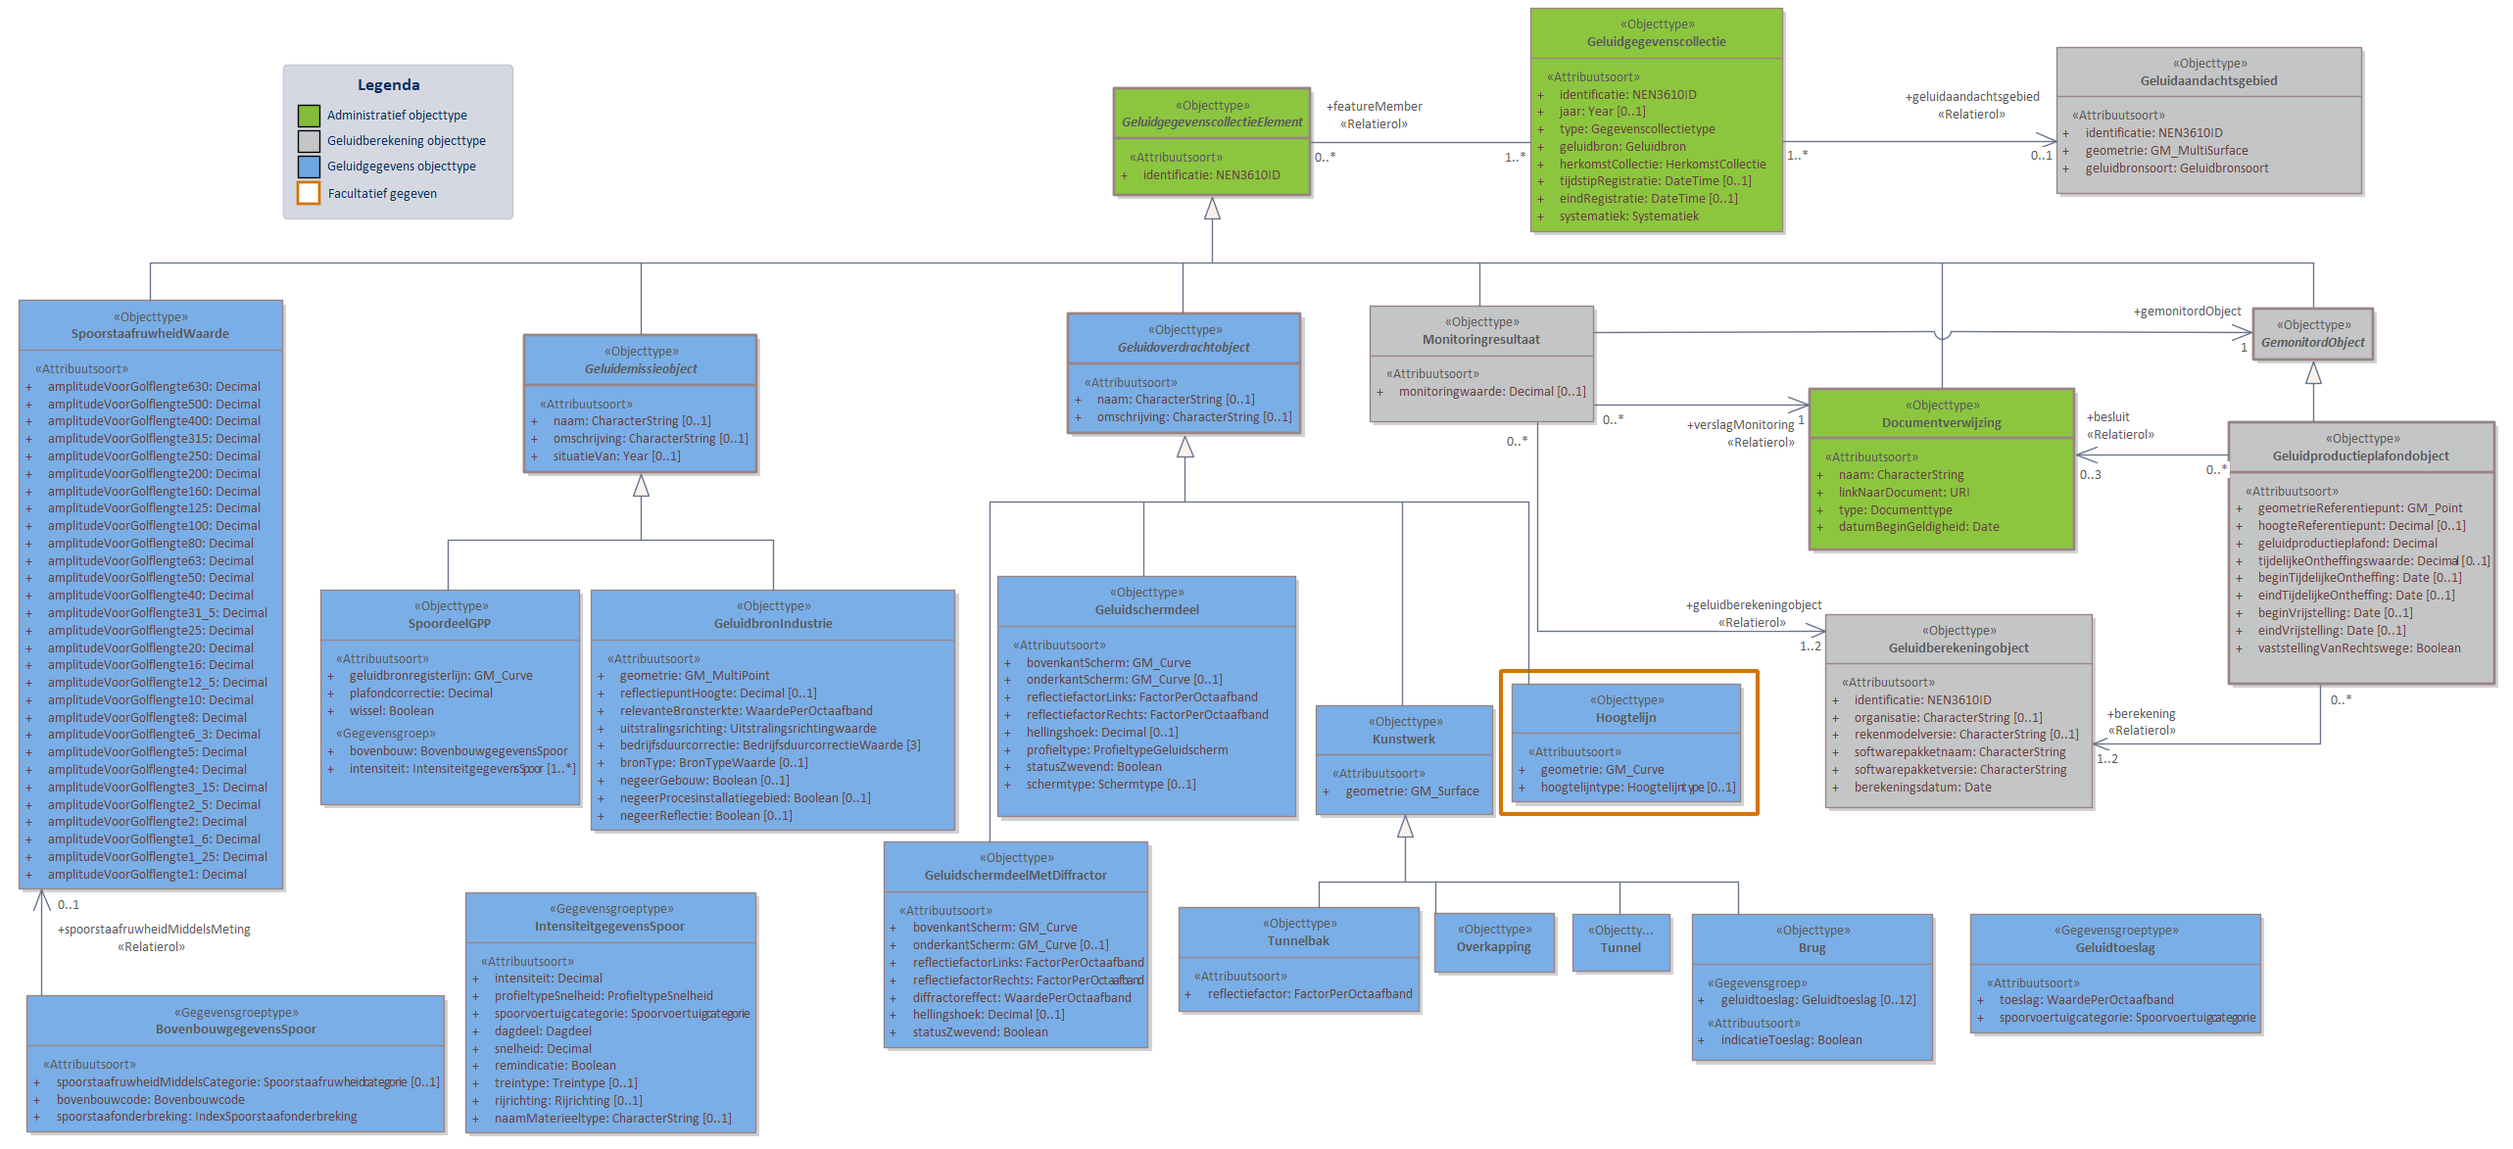
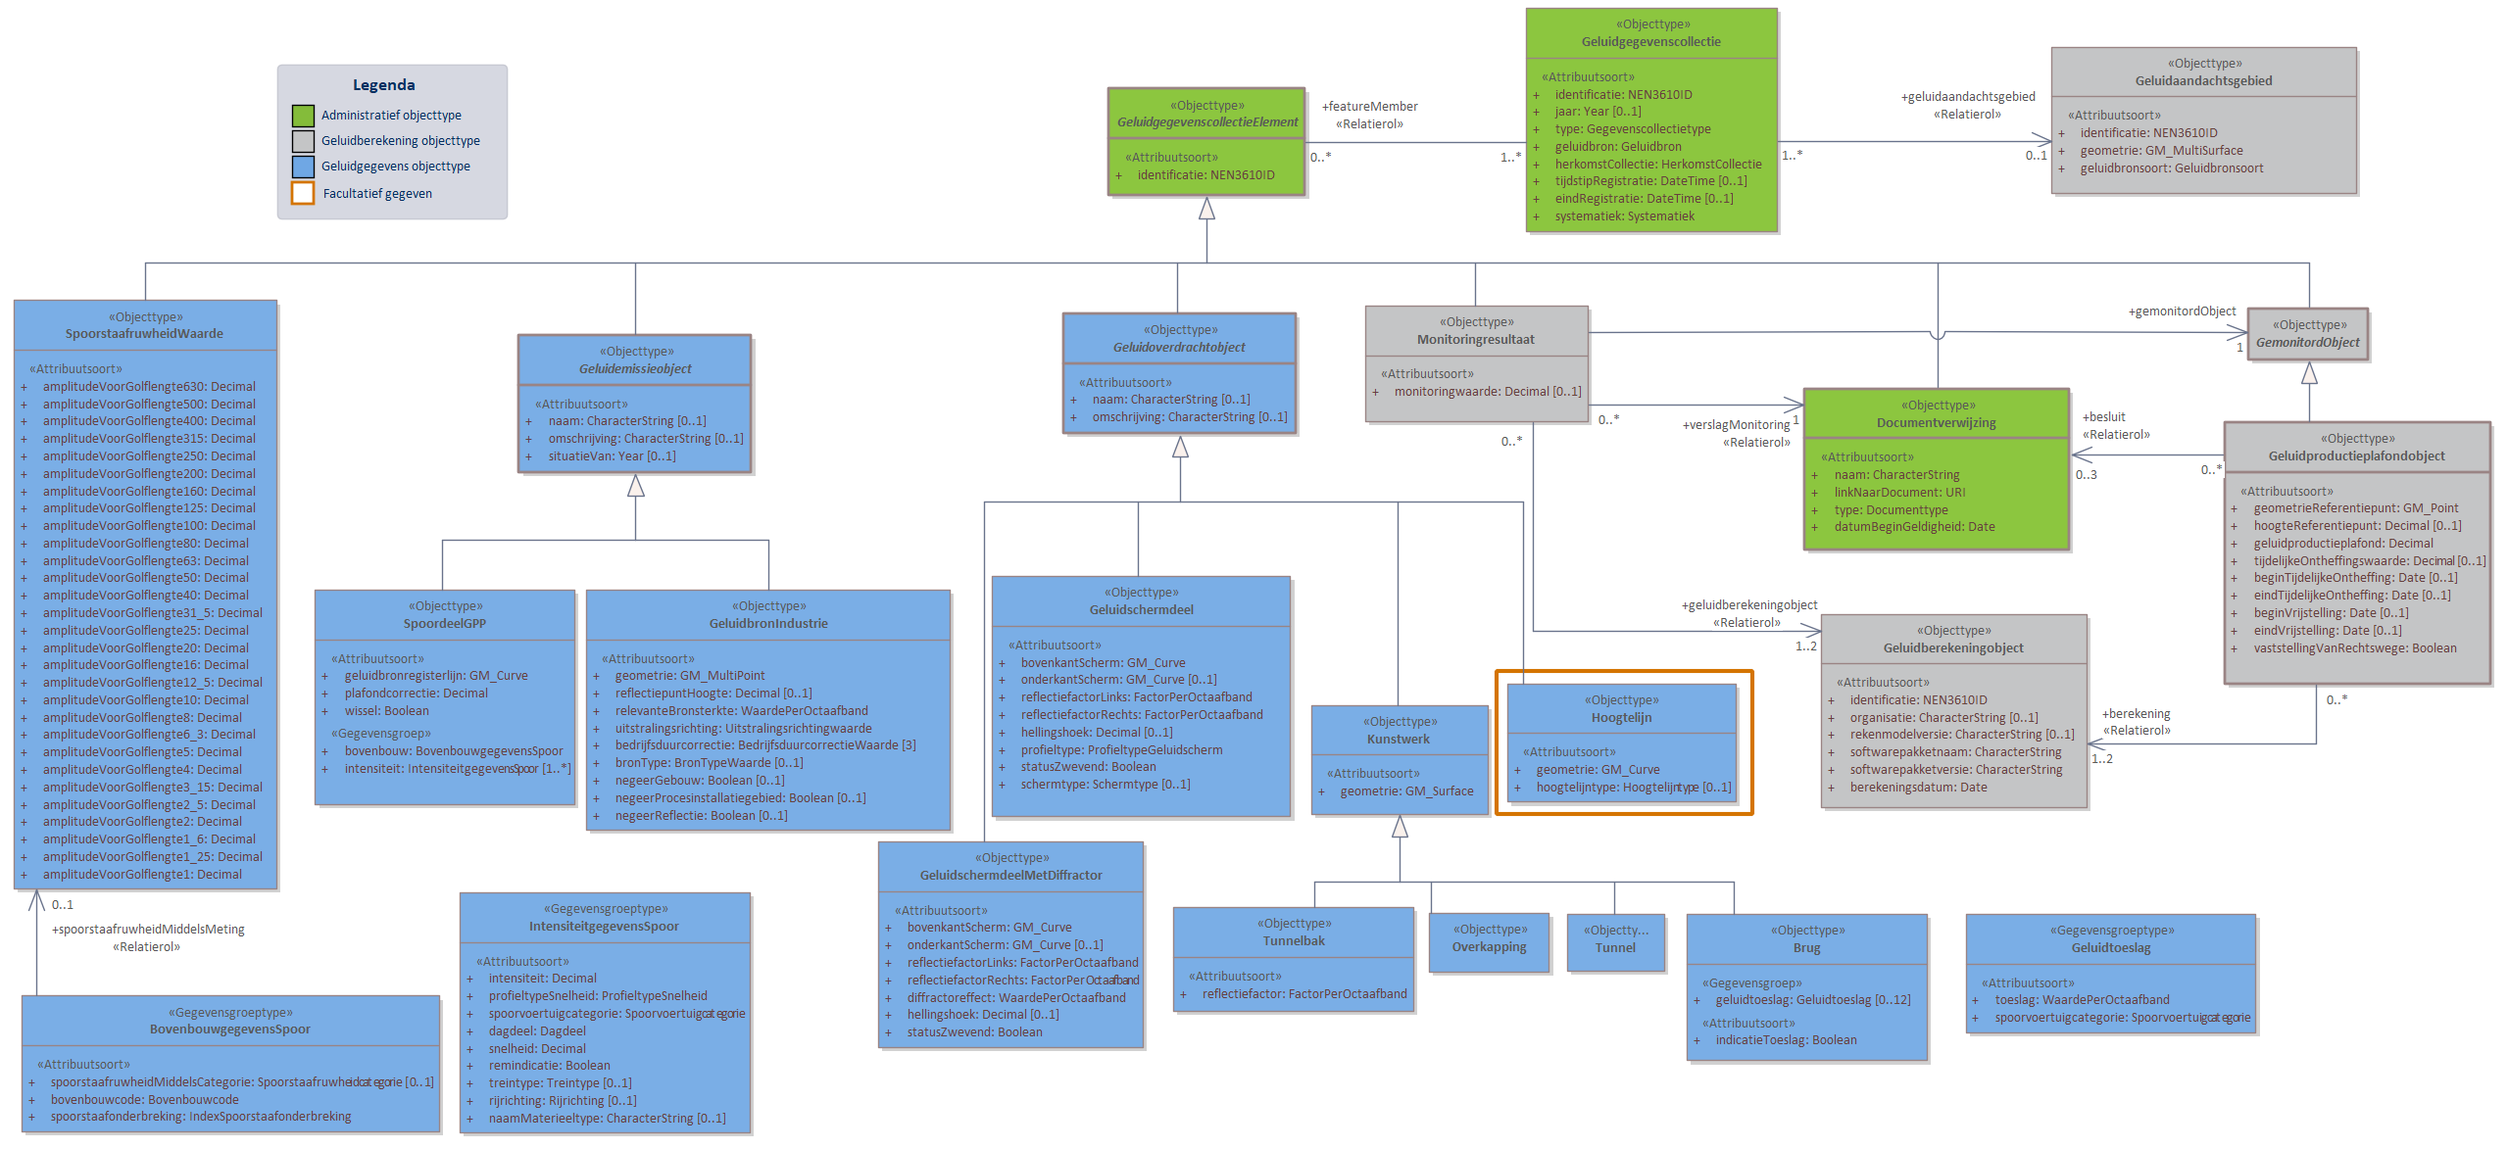
MIMLM-IMGeluid-3.1.1-0-20230920-20240814-122722

diff --git a/data/IMG-cat.respec.html b/data/IMG-cat.respec.html
@@ -1,7 +1,7 @@
 
 <!DOCTYPE HTML><section id="cat" class="normative">
    <h2>Gegevensdefinitie</h2>
-   <!--MIMLM-IMGeluid-3.1.1-0-20230920-20240814-122103 imvertor 3.0.0-->
+   <!--MIMLM-IMGeluid-3.1.1-0-20230920-20240814-122722 imvertor 3.0.0-->
    <section id="EAID_66AE8FA2_74FC_4d4d_B2B2_249C8D6A651F">
       <h3>   Basismodel - overzicht</h3>
       <div class="imageinfo overview">
@@ -51,7 +51,7 @@
       <h3>   GPP Industrie - overzicht</h3>
       <div class="imageinfo overview">
          <figure><img src="data/Images/EAID_4D140CCE_0889_4998_B668_8E4DB0053589.png" usemap="#imagemap-EAID_4D140CCE_0889_4998_B668_8E4DB0053589" alt="Diagram &#xA;                        In domeinmodel GPP Industrie staan objecttypen en relaties die relevant zijn voor geluidbronbeheersing van industrieterreinen waarvoor de geluidproductieplafond regeling geldt; en die nodig zijn voor akoestisch onderzoek binnen het geluidaandachtsgebied van het industrieterrein.&#xA;                        Alle geluidbronnen op een industrieterrein worden opgeslagen als puntbronnen in het object  GeluidbronIndustrie. Indien binnen geluidrekensoftware gebruik is gemaakt van lijn- of vlakgeometrie voor het uitdrukken van geluidbronnen kan dit worden opgeslagen als optionele informatie conform de objecten LijnbronIndustrie en VlakbronIndustrie. &#xA;                        Voor ieder Geluidproductieplafondobject rondom het industrieterrein, valt te herleiden op welke geluidberekening de geluidproductieplafondwaarde gebaseerd is. Deze informatie wordt bijgehouden conform het Geluidberekeningobject.&#xA;                        Ook valt er te herleiden welke geluidbrongegevens gebruikt zijn bij een geluidberekening. Deze geluidbrongegevens zijn samen met het Geluidberekeningsobject terug te vinden in een  Geluidgegevenscollectie in de vorm van gespecialiseerde geluidemissie- en geluidoverdrachtsobjecten.&#xA;                        &#xA;                        Klik met de rechtermuisknop op het diagram om de afbeelding op volledige grootte in een nieuw tabblad te openen&#xA;                     "><figcaption>GPP Industrie</figcaption>
-         </figure><map name="imagemap-EAID_4D140CCE_0889_4998_B668_8E4DB0053589"><area shape="rect" alt="GeluidschermdeelMetDiffractor" coords="1055,936,1326,1146" href="#global_class_IMGeluid_GeluidschermdeelMetDiffractor"><area shape="rect" alt="GemonitordObject" coords="1725,313,1848,372" href="#global_class_IMGeluid_GemonitordObject"><area shape="rect" alt="Industrieterrein" coords="1326,547,1591,674" href="#global_class_IMGeluid_Industrieterrein"><area shape="rect" alt="GeluidgegevenscollectieElement" coords="694,101,918,211" href="#global_class_IMGeluid_GeluidgegevenscollectieElement"><area shape="rect" alt="MonitoringresultaatIndustrie" coords="2163,878,2409,982" href="#global_class_IMGeluid_MonitoringresultaatIndustrie"><area shape="rect" alt="" coords="1119,339,1294,479" href="#global_class_IMGeluid_Terreintype"><area shape="rect" alt="Monitoringresultaat" coords="2170,654,2390,757" href="#global_class_IMGeluid_Monitoringresultaat"><area shape="rect" alt="Geluidgegevenscollectie" coords="1304,14,1627,244" href="#global_class_IMGeluid_Geluidgegevenscollectie"><area shape="rect" alt="Geluidoverdrachtobject" coords="685,363,934,484" href="#global_class_IMGeluid_Geluidoverdrachtobject"><area shape="rect" alt="Geluidemissieobject" coords="175,363,432,506" href="#global_class_IMGeluid_Geluidemissieobject"><area shape="rect" alt="GeluidproductieplafondobjectIndustrie" coords="1509,819,1813,977" href="#global_class_IMGeluid_GeluidproductieplafondobjectIndustrie"><area shape="rect" alt="Hoogtelijn" coords="503,837,739,959" href="#global_class_IMGeluid_Hoogtelijn"><area shape="rect" alt="Geluidschermdeel" coords="754,839,1038,1064" href="#global_class_IMGeluid_Geluidschermdeel"><area shape="rect" alt="VlakbronIndustrie" coords="376,1021,639,1198" href="#global_class_IMGeluid_VlakbronIndustrie"><area shape="rect" alt="IndustrieRekeninstellingen" coords="1828,1082,2133,1185" href="#global_class_IMGeluid_IndustrieRekeninstellingen"><area shape="rect" alt="Bodemvlak" coords="1081,621,1259,748" href="#global_class_IMGeluid_Bodemvlak"><area shape="rect" alt="Geluidberekeningobject" coords="1829,856,2134,1049" href="#global_class_IMGeluid_Geluidberekeningobject"><area shape="rect" alt="Terrein" coords="1324,341,1590,498" href="#global_class_IMGeluid_Terrein"><area shape="rect" alt="LijnbronIndustrie" coords="89,1022,330,1182" href="#global_class_IMGeluid_LijnbronIndustrie"><area shape="rect" alt="Procesinstallatiegebied" coords="813,621,1062,774" href="#global_class_IMGeluid_Procesinstallatiegebied"><area shape="rect" alt="Vegetatiegebied" coords="1089,766,1313,918" href="#global_class_IMGeluid_Vegetatiegebied"><area shape="rect" alt="Documentverwijzing" coords="2074,397,2285,551" href="#global_class_IMGeluid_Documentverwijzing"><area shape="rect" alt="Geluidproductieplafondobject" coords="1668,421,1960,673" href="#global_class_IMGeluid_Geluidproductieplafondobject"><area shape="rect" alt="Bouwwerk" coords="525,621,792,792" href="#global_class_IMGeluid_Bouwwerk"><area shape="rect" alt="Geluidaandachtsgebied" coords="1980,42,2222,189" href="#global_class_IMGeluid_Geluidaandachtsgebied"><area shape="rect" alt="GeluidbronIndustrie" coords="112,557,462,802" href="#global_class_IMGeluid_GeluidbronIndustrie"></map><p>
+         </figure><map name="imagemap-EAID_4D140CCE_0889_4998_B668_8E4DB0053589"><area shape="rect" alt="GeluidschermdeelMetDiffractor" coords="1048,936,1319,1146" href="#global_class_IMGeluid_GeluidschermdeelMetDiffractor"><area shape="rect" alt="GemonitordObject" coords="1718,313,1841,372" href="#global_class_IMGeluid_GemonitordObject"><area shape="rect" alt="Industrieterrein" coords="1319,547,1584,674" href="#global_class_IMGeluid_Industrieterrein"><area shape="rect" alt="GeluidgegevenscollectieElement" coords="687,101,911,211" href="#global_class_IMGeluid_GeluidgegevenscollectieElement"><area shape="rect" alt="MonitoringresultaatIndustrie" coords="2156,878,2402,982" href="#global_class_IMGeluid_MonitoringresultaatIndustrie"><area shape="rect" alt="" coords="1112,339,1287,479" href="#global_class_IMGeluid_Terreintype"><area shape="rect" alt="Monitoringresultaat" coords="2163,654,2383,757" href="#global_class_IMGeluid_Monitoringresultaat"><area shape="rect" alt="Geluidgegevenscollectie" coords="1297,14,1620,244" href="#global_class_IMGeluid_Geluidgegevenscollectie"><area shape="rect" alt="Geluidoverdrachtobject" coords="679,363,928,484" href="#global_class_IMGeluid_Geluidoverdrachtobject"><area shape="rect" alt="Geluidemissieobject" coords="168,363,425,506" href="#global_class_IMGeluid_Geluidemissieobject"><area shape="rect" alt="GeluidproductieplafondobjectIndustrie" coords="1502,819,1806,977" href="#global_class_IMGeluid_GeluidproductieplafondobjectIndustrie"><area shape="rect" alt="Hoogtelijn" coords="497,837,732,959" href="#global_class_IMGeluid_Hoogtelijn"><area shape="rect" alt="Geluidschermdeel" coords="747,839,1031,1064" href="#global_class_IMGeluid_Geluidschermdeel"><area shape="rect" alt="VlakbronIndustrie" coords="369,1021,632,1198" href="#global_class_IMGeluid_VlakbronIndustrie"><area shape="rect" alt="IndustrieRekeninstellingen" coords="1821,1082,2126,1185" href="#global_class_IMGeluid_IndustrieRekeninstellingen"><area shape="rect" alt="Bodemvlak" coords="1074,621,1252,748" href="#global_class_IMGeluid_Bodemvlak"><area shape="rect" alt="Geluidberekeningobject" coords="1822,856,2127,1049" href="#global_class_IMGeluid_Geluidberekeningobject"><area shape="rect" alt="Terrein" coords="1317,341,1583,498" href="#global_class_IMGeluid_Terrein"><area shape="rect" alt="LijnbronIndustrie" coords="82,1022,323,1182" href="#global_class_IMGeluid_LijnbronIndustrie"><area shape="rect" alt="Procesinstallatiegebied" coords="806,621,1055,774" href="#global_class_IMGeluid_Procesinstallatiegebied"><area shape="rect" alt="Vegetatiegebied" coords="1082,766,1306,918" href="#global_class_IMGeluid_Vegetatiegebied"><area shape="rect" alt="Documentverwijzing" coords="2067,397,2278,551" href="#global_class_IMGeluid_Documentverwijzing"><area shape="rect" alt="Geluidproductieplafondobject" coords="1661,421,1954,673" href="#global_class_IMGeluid_Geluidproductieplafondobject"><area shape="rect" alt="Bouwwerk" coords="518,621,785,792" href="#global_class_IMGeluid_Bouwwerk"><area shape="rect" alt="Geluidaandachtsgebied" coords="1973,42,2215,189" href="#global_class_IMGeluid_Geluidaandachtsgebied"><area shape="rect" alt="GeluidbronIndustrie" coords="105,557,456,802" href="#global_class_IMGeluid_GeluidbronIndustrie"></map><p>
             
             <p>In domeinmodel GPP Industrie staan objecttypen en relaties die relevant zijn voor
                geluidbronbeheersing van industrieterreinen waarvoor de geluidproductieplafond regeling
@@ -113,7 +113,7 @@
       <h3>   GPP Spoor - overzicht</h3>
       <div class="imageinfo overview">
          <figure><img src="data/Images/EAID_33DF05AD_62E8_41d4_8CC0_8980CB80739F.png" usemap="#imagemap-EAID_33DF05AD_62E8_41d4_8CC0_8980CB80739F" alt="Diagram &#xA;                        In domeinmodel GPP Spoor staan objecttypen en relaties die relevant zijn voor geluidbronbeheersing van spoorwegen waarvoor de geluidproductieplafond regeling geldt; en die nodig zijn voor akoestisch onderzoek binnen het geluidaandachtsgebied van spoorwegen.&#xA;                        Geluidbronnen binnen GPP Spoor worden opgeslagen als lijnbron conform het object SpoordeelGPP, behalve voor geluidbronnen binnen spoorwegemplacementen. Deze geluidbronnen worden opgeslagen als GeluidbronIndustrie.&#xA;                        Voor ieder Geluidproductieplafondobject langs een Hoofdspoorweg, valt te herleiden op welke geluidberekening de geluidproductieplafondwaarde gebaseerd is. Deze informatie wordt bijgehouden conform het Geluidberekeningobject.&#xA;                        Ook valt er te herleiden welke geluidbrongegevens gebruikt zijn bij een geluidberekening. Deze geluidbrongegevens zijn samen met het Geluidberekeningsobject terug te vinden in een  Geluidgegevenscollectie in de vorm van gespecialiseerde geluidemissie- en geluidoverdrachtsobjecten.&#xA;                        &#xA;                        Klik met de rechtermuisknop op het diagram om de afbeelding op volledige grootte in een nieuw tabblad te openen&#xA;                        &#xA;                     "><figcaption>GPP Spoor</figcaption>
-         </figure><map name="imagemap-EAID_33DF05AD_62E8_41d4_8CC0_8980CB80739F"><area shape="rect" alt="GemonitordObject" coords="2300,315,2423,368" href="#global_class_IMGeluid_GemonitordObject"><area shape="rect" alt="GeluidschermdeelMetDiffractor" coords="902,859,1172,1070" href="#global_class_IMGeluid_GeluidschermdeelMetDiffractor"><area shape="rect" alt="IntensiteitgegevensSpoor" coords="475,911,772,1157" href="#global_class_IMGeluid_IntensiteitgegevensSpoor"><area shape="rect" alt="BovenbouwgegevensSpoor" coords="27,1016,454,1156" href="#global_class_IMGeluid_BovenbouwgegevensSpoor"><area shape="rect" alt="SpoorstaafruwheidWaarde" coords="19,306,289,908" href="#global_class_IMGeluid_SpoorstaafruwheidWaarde"><area shape="rect" alt="GeluidgegevenscollectieElement" coords="1137,90,1338,200" href="#global_class_IMGeluid_GeluidgegevenscollectieElement"><area shape="rect" alt="Geluidtoeslag" coords="2011,933,2308,1055" href="#global_class_IMGeluid_Geluidtoeslag"><area shape="rect" alt="Geluidgegevenscollectie" coords="1562,8,1820,237" href="#global_class_IMGeluid_Geluidgegevenscollectie"><area shape="rect" alt="Monitoringresultaat" coords="1398,312,1627,431" href="#global_class_IMGeluid_Monitoringresultaat"><area shape="rect" alt="GeluidbronIndustrie" coords="603,602,975,848" href="#global_class_IMGeluid_GeluidbronIndustrie"><area shape="rect" alt="Kunstwerk" coords="1343,720,1524,832" href="#global_class_IMGeluid_Kunstwerk"><area shape="rect" alt="Overkapping" coords="1464,932,1587,993" href="#global_class_IMGeluid_Overkapping"><area shape="rect" alt="Tunnelbak" coords="1203,926,1449,1033" href="#global_class_IMGeluid_Tunnelbak"><area shape="rect" alt="Tunnel" coords="1605,933,1705,992" href="#global_class_IMGeluid_Tunnel"><area shape="rect" alt="Brug" coords="1727,933,1973,1083" href="#global_class_IMGeluid_Brug"><area shape="rect" alt="Geluidemissieobject" coords="535,342,773,483" href="#global_class_IMGeluid_Geluidemissieobject"><area shape="rect" alt="Geluidoverdrachtobject" coords="1090,320,1328,443" href="#global_class_IMGeluid_Geluidoverdrachtobject"><area shape="rect" alt="Geluidberekeningobject" coords="1863,627,2136,825" href="#global_class_IMGeluid_Geluidberekeningobject"><area shape="rect" alt="Documentverwijzing" coords="1847,397,2118,562" href="#global_class_IMGeluid_Documentverwijzing"><area shape="rect" alt="Geluidaandachtsgebied" coords="2099,48,2411,198" href="#global_class_IMGeluid_Geluidaandachtsgebied"><area shape="rect" alt="Geluidproductieplafondobject" coords="2275,431,2547,699" href="#global_class_IMGeluid_Geluidproductieplafondobject"><area shape="rect" alt="SpoordeelGPP" coords="327,602,592,822" href="#global_class_IMGeluid_SpoordeelGPP"><area shape="rect" alt="Geluidschermdeel" coords="1018,588,1323,834" href="#global_class_IMGeluid_Geluidschermdeel"><area shape="rect" alt="Hoogtelijn" coords="1543,698,1777,819" href="#global_class_IMGeluid_Hoogtelijn"></map><p>
+         </figure><map name="imagemap-EAID_33DF05AD_62E8_41d4_8CC0_8980CB80739F"><area shape="rect" alt="GemonitordObject" coords="2294,315,2417,368" href="#global_class_IMGeluid_GemonitordObject"><area shape="rect" alt="GeluidschermdeelMetDiffractor" coords="896,859,1167,1070" href="#global_class_IMGeluid_GeluidschermdeelMetDiffractor"><area shape="rect" alt="IntensiteitgegevensSpoor" coords="469,911,766,1157" href="#global_class_IMGeluid_IntensiteitgegevensSpoor"><area shape="rect" alt="BovenbouwgegevensSpoor" coords="22,1016,449,1156" href="#global_class_IMGeluid_BovenbouwgegevensSpoor"><area shape="rect" alt="SpoorstaafruwheidWaarde" coords="14,306,283,908" href="#global_class_IMGeluid_SpoorstaafruwheidWaarde"><area shape="rect" alt="GeluidgegevenscollectieElement" coords="1131,90,1332,200" href="#global_class_IMGeluid_GeluidgegevenscollectieElement"><area shape="rect" alt="Geluidtoeslag" coords="2006,933,2302,1055" href="#global_class_IMGeluid_Geluidtoeslag"><area shape="rect" alt="Geluidgegevenscollectie" coords="1557,8,1814,237" href="#global_class_IMGeluid_Geluidgegevenscollectie"><area shape="rect" alt="Monitoringresultaat" coords="1393,312,1621,431" href="#global_class_IMGeluid_Monitoringresultaat"><area shape="rect" alt="GeluidbronIndustrie" coords="598,602,970,848" href="#global_class_IMGeluid_GeluidbronIndustrie"><area shape="rect" alt="Kunstwerk" coords="1338,720,1519,832" href="#global_class_IMGeluid_Kunstwerk"><area shape="rect" alt="Overkapping" coords="1458,932,1581,993" href="#global_class_IMGeluid_Overkapping"><area shape="rect" alt="Tunnelbak" coords="1197,926,1443,1033" href="#global_class_IMGeluid_Tunnelbak"><area shape="rect" alt="Tunnel" coords="1599,933,1699,992" href="#global_class_IMGeluid_Tunnel"><area shape="rect" alt="Brug" coords="1721,933,1967,1083" href="#global_class_IMGeluid_Brug"><area shape="rect" alt="Geluidemissieobject" coords="529,342,767,483" href="#global_class_IMGeluid_Geluidemissieobject"><area shape="rect" alt="Geluidoverdrachtobject" coords="1085,320,1323,443" href="#global_class_IMGeluid_Geluidoverdrachtobject"><area shape="rect" alt="Geluidberekeningobject" coords="1858,627,2130,825" href="#global_class_IMGeluid_Geluidberekeningobject"><area shape="rect" alt="Documentverwijzing" coords="1841,397,2112,562" href="#global_class_IMGeluid_Documentverwijzing"><area shape="rect" alt="Geluidaandachtsgebied" coords="2093,48,2405,198" href="#global_class_IMGeluid_Geluidaandachtsgebied"><area shape="rect" alt="Geluidproductieplafondobject" coords="2270,431,2542,699" href="#global_class_IMGeluid_Geluidproductieplafondobject"><area shape="rect" alt="SpoordeelGPP" coords="321,602,587,822" href="#global_class_IMGeluid_SpoordeelGPP"><area shape="rect" alt="Geluidschermdeel" coords="1012,588,1317,834" href="#global_class_IMGeluid_Geluidschermdeel"><area shape="rect" alt="Hoogtelijn" coords="1538,698,1772,819" href="#global_class_IMGeluid_Hoogtelijn"></map><p>
             
             <p>In domeinmodel GPP Spoor staan objecttypen en relaties die relevant zijn voor geluidbronbeheersing
                van spoorwegen waarvoor de geluidproductieplafond regeling geldt; en die nodig zijn
@@ -33991,7 +33991,7 @@
 </section>
 <section id="lis" class="normative">
    <h2>Inhoud van waardenlijsten</h2>
-   <!--MIMLM-IMGeluid-3.1.1-0-20230920-20240814-122103 imvertor 3.0.0-->
+   <!--MIMLM-IMGeluid-3.1.1-0-20230920-20240814-122722 imvertor 3.0.0-->
    <section id="detail_class_IMGeluid_Schermtype">
       <h3>Enumeratie details  Schermtype</h3>
       
